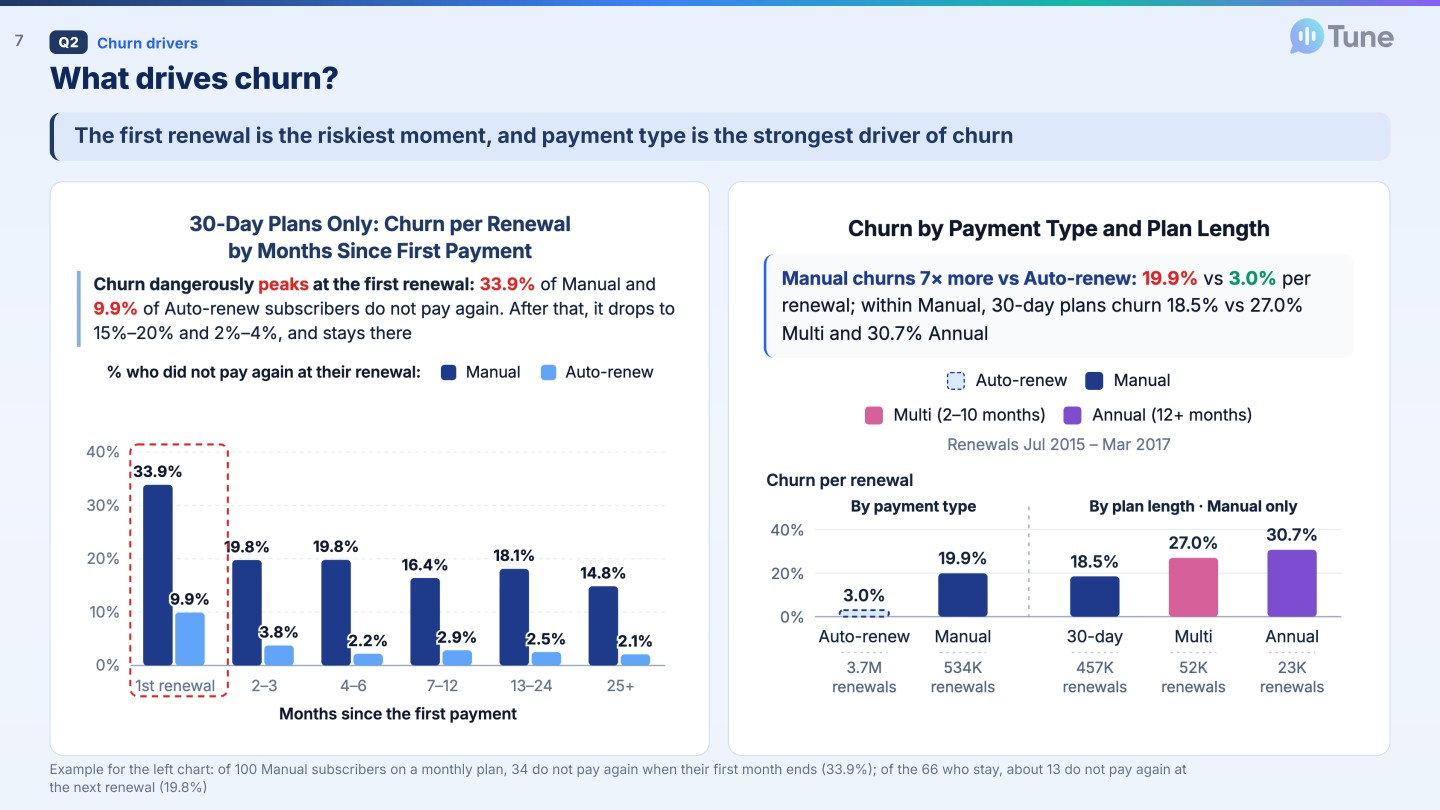
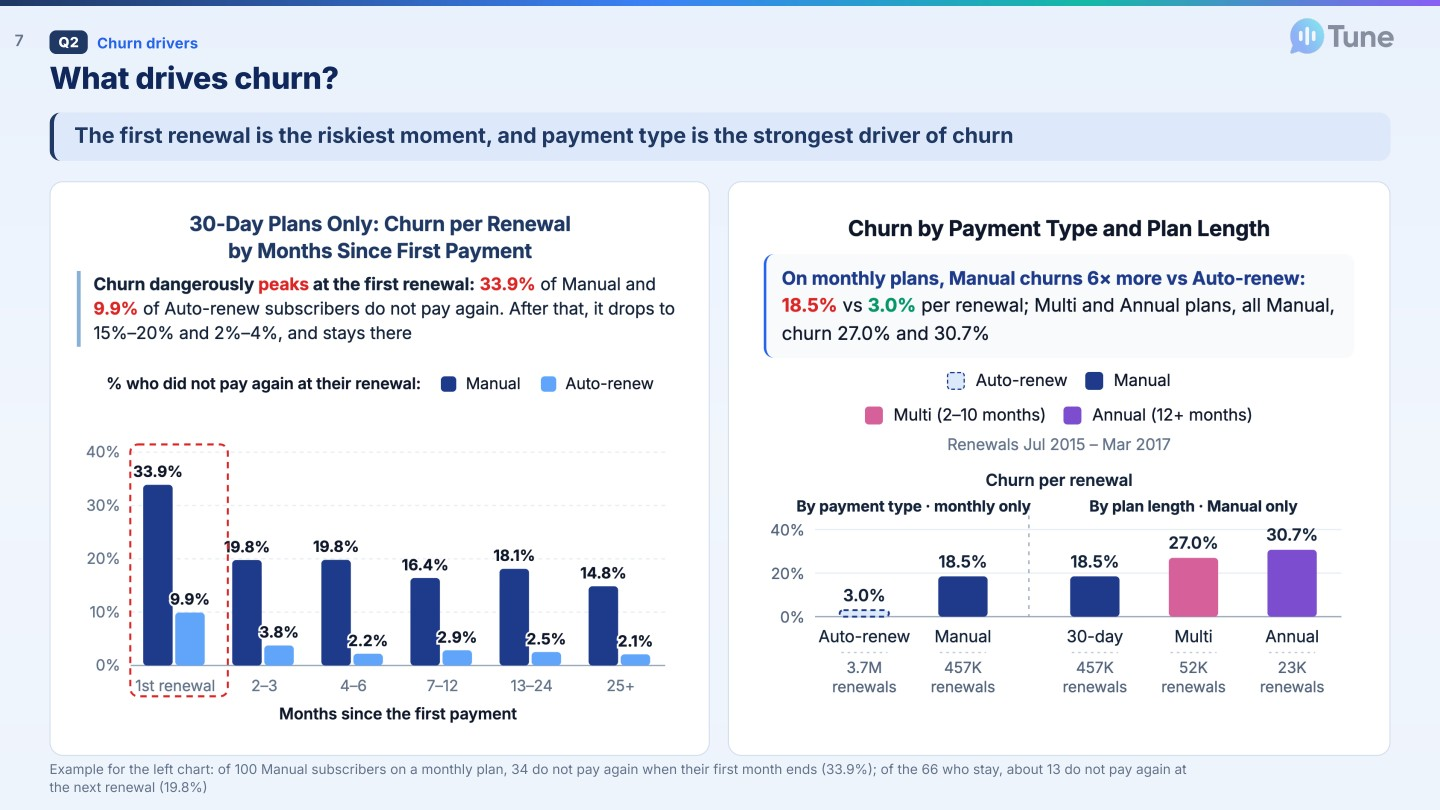
Deck slide 7: payment-type churn compared on monthly plans only (18.5% vs 3.0%, 6x), centred axis title

diff --git a/index.html b/index.html
@@ -3726,7 +3726,7 @@ const ISSUES = { raw_users: "U1-U11: age 0 or out of range, gender missing, regi
   raw_churn_labels: "L4-L7: labels don't match a naive 'due in March' population" };
 
 // ---------------- tabs ----------------
-const DECKV = "1118s06w";  // change on every deck update so browsers load the new slide images, not a cached copy
+const DECKV = "1118s07d";  // change on every deck update so browsers load the new slide images, not a cached copy
 const GROUPS = {
   intro: [["overview", "Overview"]],
   p1: [["dq", "1a · Data quality"], ["lineage", "1b.1 · Clean layer & data model"], ["explorer", "1b.2 · Explorer & SQL"], ["churn", "1c · Churn check"]],
